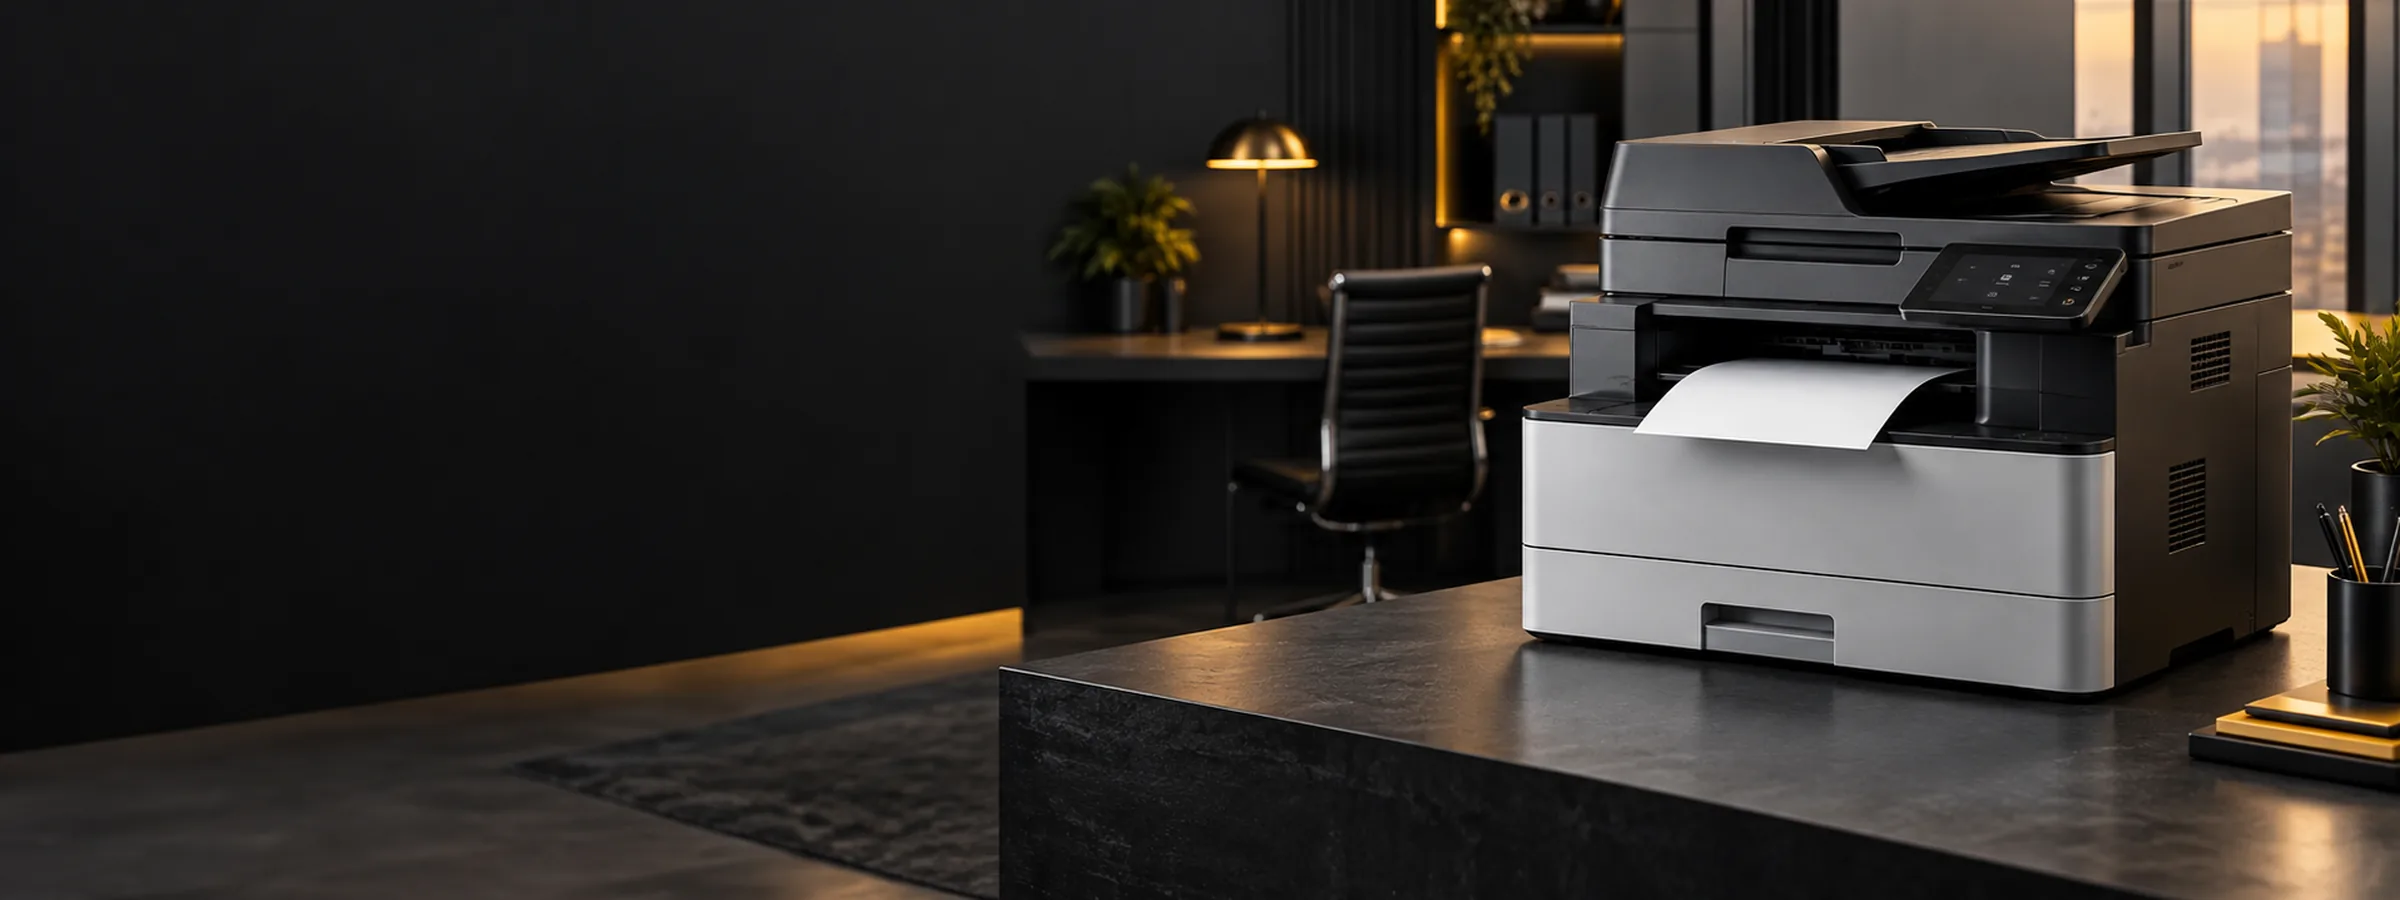
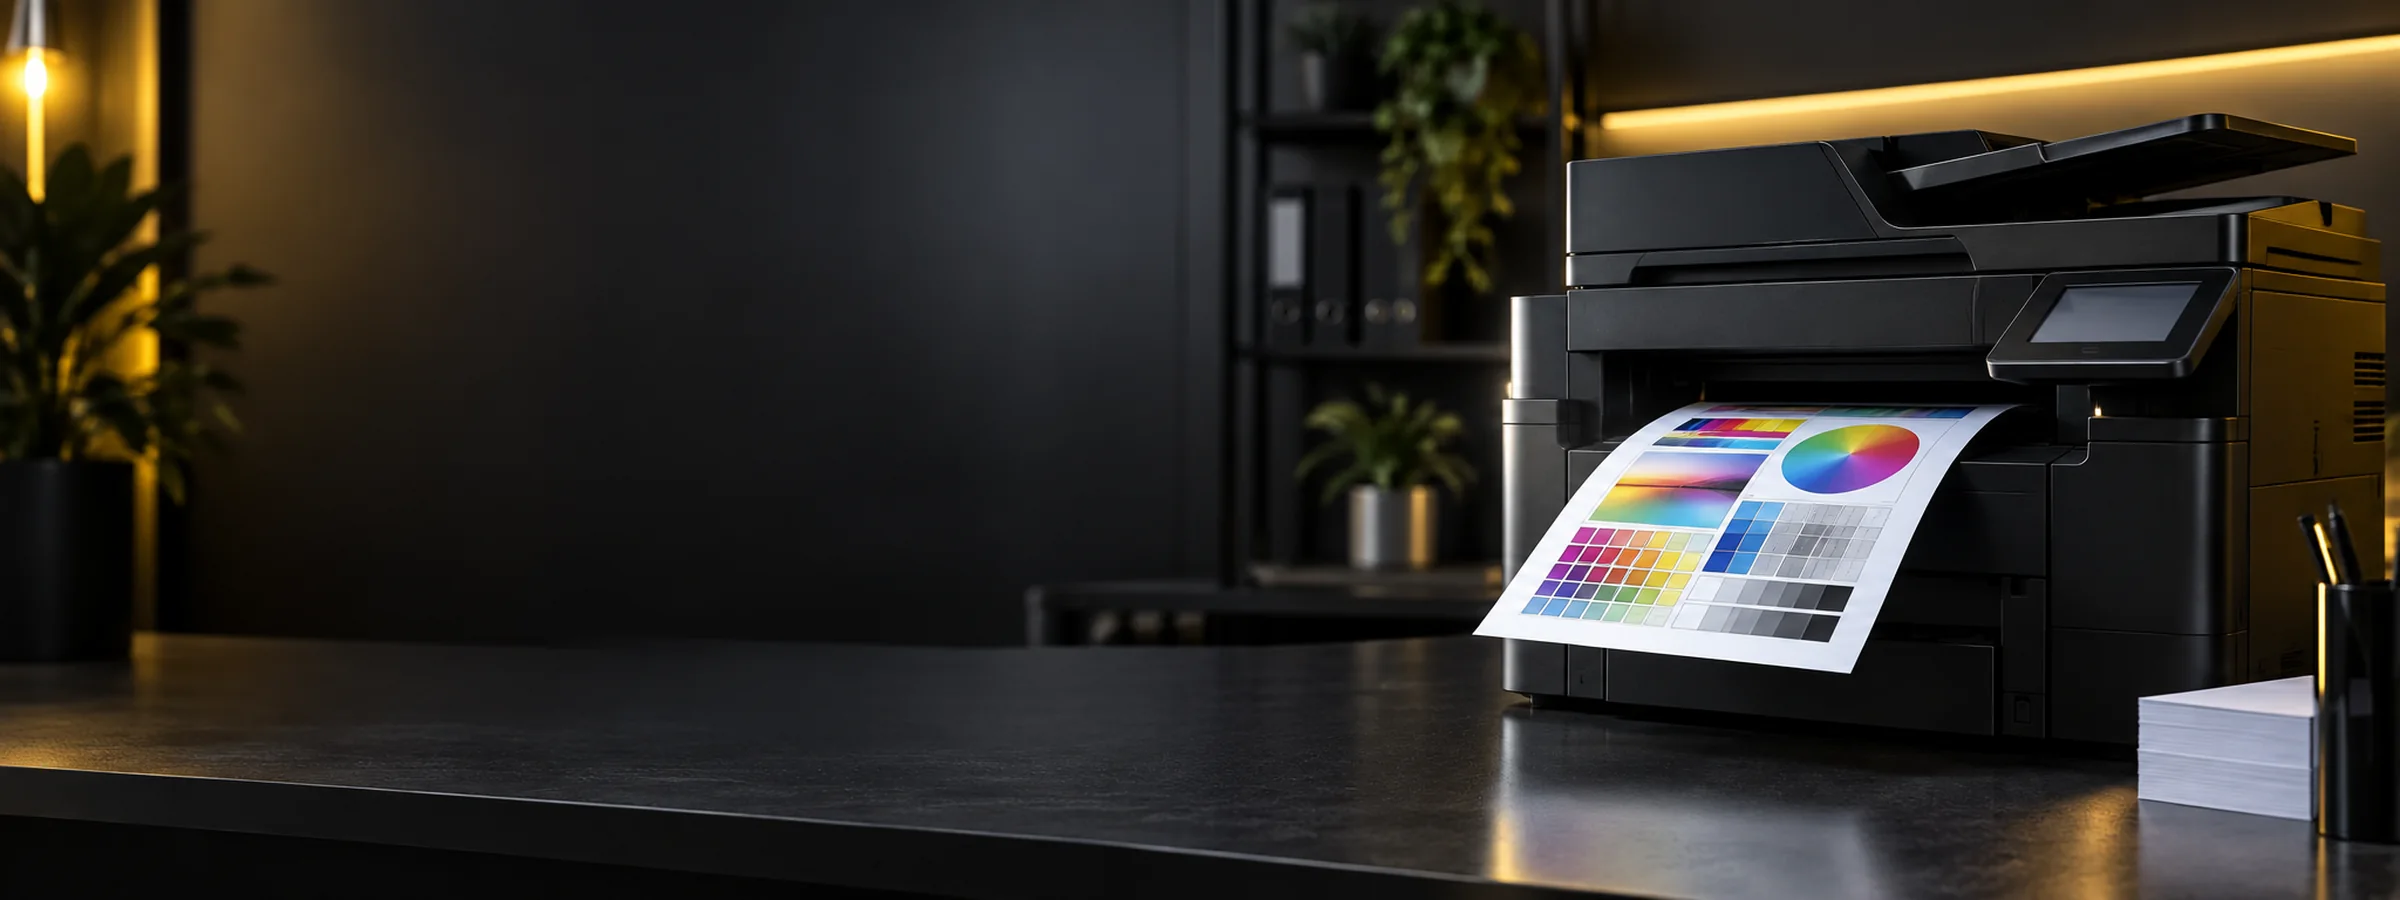
Новые сюжеты баннера, фотография офиса в подвале, прокрутка наверх при смене карточки
Четыре снимка из архива положены в assets/img/banners/. Слайд 1 — цветная
пробная страница из принтера, единственный слайд с выходящей бумагой; слайд 2 —
картриджи на сервисной стойке, без принтера; слайд 3 — живой офис, МФУ в
глубине. Размеры и несовпадение файлов проверены: три по 2400×900, подвал
2400×600, все четыре с разными контрольными суммами.

Подвал получил фотографию офиса во всю ширину под тёмной заливкой сверху вниз.
Ниже 980px подвал вытягивается в высокий столбец, и cover раздувал бы
горизонтальный снимок почти вдвое — оставалось нечитаемое пятно. Там он идёт
полосой во всю ширину сверху и растворяется в тёмном фоне.

Прокрутка при смене карточки. Причина была не в блоке похожих товаров, а в
html{scroll-behavior:smooth}: обычный scrollTo превращался в анимацию, и переход
по хешу её обрывал. В сборке одним файлом страница вообще не двигалась, на
сервере доезжала до верха почти секунду. Теперь прокрутка в общей логике
маршрутов всегда мгновенная и повторяется на следующем кадре — после того как
браузер отработает переход к фрагменту. Восстановление позиции историей
переведено в ручной режим, иначе браузер возвращал прокрутку поверх нашей.

Проверено на сервере и в файле-макете, на 1440 и 390: переход из блока похожих
товаров и из каталога открывает карточку сверху (y=0 уже через 200мс), ссылка
на отзывы по-прежнему открывает блок отзывов. Три слайда дают три разных
снимка, подвал во всю ширину без горизонтальной прокрутки, ошибок нет.
[…]

diff --git a/assets/js/app.js b/assets/js/app.js
@@ -657,6 +657,26 @@
   var routes = { home: home, catalog: catalog, product: product, printer: printer, cart: cart, checkout: checkout, order: order, favorites: favorites, compare: compare, page: page, finder: finder, login: login, notfound: notfound };
 
   /* --------------------------------------------------------- отрисовка */
+  /*
+    Прокрутка при смене маршрута.
+
+    html{scroll-behavior:smooth} превращает обычный scrollTo в анимацию, а
+    переход по хешу её обрывает: в сборке одним файлом карточка похожего товара
+    открывалась там же, где стояла прокрутка, а на сервере доезжала до верха
+    почти секунду. Поэтому здесь прокрутка всегда мгновенная — на время вызова
+    плавность отключается инлайновым стилем, а браузерам поновее хватает
+    behavior:'instant'.
+  */
+  function scrollToY(y) {
+    var el = document.documentElement, prev = el.style.scrollBehavior;
+    el.style.scrollBehavior = 'auto';
+    try { window.scrollTo({ top: y, left: 0, behavior: 'instant' }); }
+    catch (e) { window.scrollTo(0, y); }
+    el.style.scrollBehavior = prev;
+  }
+  /* Свою прокрутку по истории браузер бы восстанавливал поверх нашей. */
+  if ('scrollRestoration' in history) history.scrollRestoration = 'manual';
+
   var lastKey = null, lastPath = null;
   function render() {
     var r = parse(), fn = routes[r.route] || notfound;
@@ -675,10 +695,14 @@
         a.classList.toggle('on', a.getAttribute('href') === link.catalog(r.cat || ''));
       });
       closeMenu(); closeMob();
-      if (keepScroll) window.scrollTo(0, y); else window.scrollTo(0, 0);
-      if (r.route === 'product' && r.query.tab) {
+      var toTab = r.route === 'product' && r.query.tab && key !== lastKey;
+      scrollToY(keepScroll ? y : 0);
+      /* Ещё раз на следующем кадре: переход по хешу браузер доделывает после
+         нас и иначе возвращает страницу туда, где она стояла. */
+      if (!keepScroll && !toTab) requestAnimationFrame(function () { scrollToY(0); });
+      if (toTab) {
         var t = document.getElementById('ptabs');
-        if (t && key !== lastKey) setTimeout(function () { t.scrollIntoView({ block: 'start' }); }, 30);
+        if (t) setTimeout(function () { t.scrollIntoView({ block: 'start' }); }, 30);
       }
       lastKey = key; lastPath = r.route;
       updateHeader();

diff --git a/assets/css/styles.css b/assets/css/styles.css
@@ -744,8 +744,10 @@ table.cmp td:first-child,table.cmp th:first-child{color:var(--muted);font-weight
 
 /* 12. Подвал
    -------------------------------------------------------------------------- */
-.foot{position:relative;color:#d8d7d1;margin-top:80px;padding:56px 0 32px;font-size:16px;background:#141312 url(../img/art/footer.svg) center/cover no-repeat}
-.foot::before{content:"";position:absolute;inset:0;background:linear-gradient(90deg,rgba(14,14,14,.96) 0%,rgba(14,14,14,.9) 42%,rgba(14,14,14,.66) 70%,rgba(14,14,14,.42) 100%),linear-gradient(180deg,rgba(14,14,14,.18) 0%,rgba(14,14,14,.42) 100%)}
+/* Фотография офиса лежит фоном во всю ширину, поверх — тёмная заливка:
+   ссылки и реквизиты читаются, но снимок остаётся виден. */
+.foot{position:relative;color:#d8d7d1;margin-top:80px;padding:56px 0 32px;font-size:16px;background:#141312 url(../img/banners/footer-office.webp) center/cover no-repeat}
+.foot::before{content:"";position:absolute;inset:0;background:linear-gradient(180deg,rgba(12,12,11,.9) 0%,rgba(12,12,11,.82) 40%,rgba(12,12,11,.9) 100%)}
 .foot .wrap{position:relative}
 .fgrid{display:grid;grid-template-columns:1.5fr 1fr 1fr 1fr 1.3fr;gap:32px}
 .foot h4{color:#fff;font-size:15px;margin-bottom:16px;letter-spacing:.07em;text-transform:uppercase;font-weight:700}
@@ -920,6 +922,11 @@ table.cmp td:first-child,table.cmp th:first-child{color:var(--muted);font-weight
   .step{padding:14px 16px}
   .finder-page,.contacts{grid-template-columns:1fr}
   .fgrid{grid-template-columns:1fr 1fr}
+  /* Подвал здесь вытягивается в высокий столбец, и cover раздул бы
+     горизонтальный снимок вдвое. Поэтому он идёт полосой во всю ширину
+     сверху и плавно растворяется в тёмном фоне. */
+  .foot{background-size:200% auto;background-position:center top}
+  .foot::before{background:linear-gradient(180deg,rgba(12,12,11,.72) 0px,rgba(12,12,11,.86) 120px,rgba(12,12,11,.97) 185px,#141312 240px)}
 }
 
 /* ---- ≤640: телефоны ----------------------------------------------------- */

diff --git a/index.html b/index.html
@@ -151,7 +151,7 @@
     <div class="links"><a href="/help/privacy">Политика конфиденциальности</a><a href="/help/terms">Пользовательское соглашение</a><a href="/help/offer">Оферта</a></div>
     <div class="pay"><span>МИР</span><span>VISA</span><span>MC</span><span>СБП</span><span>СЧЁТ</span></div>
   </div>
-  <div class="credit">Фоны слайдера и подвала нарисованы для этого магазина, фото товаров и логотип — Hi-Black. Чужих изображений на сайте нет.</div>
+  <div class="credit">Снимки на баннере и в подвале созданы для этого магазина, фото товаров и логотип — Hi-Black. Чужих изображений на сайте нет.</div>
 </div></footer>
 
 <div class="mobmenu" id="mobmenu" aria-hidden="true">
